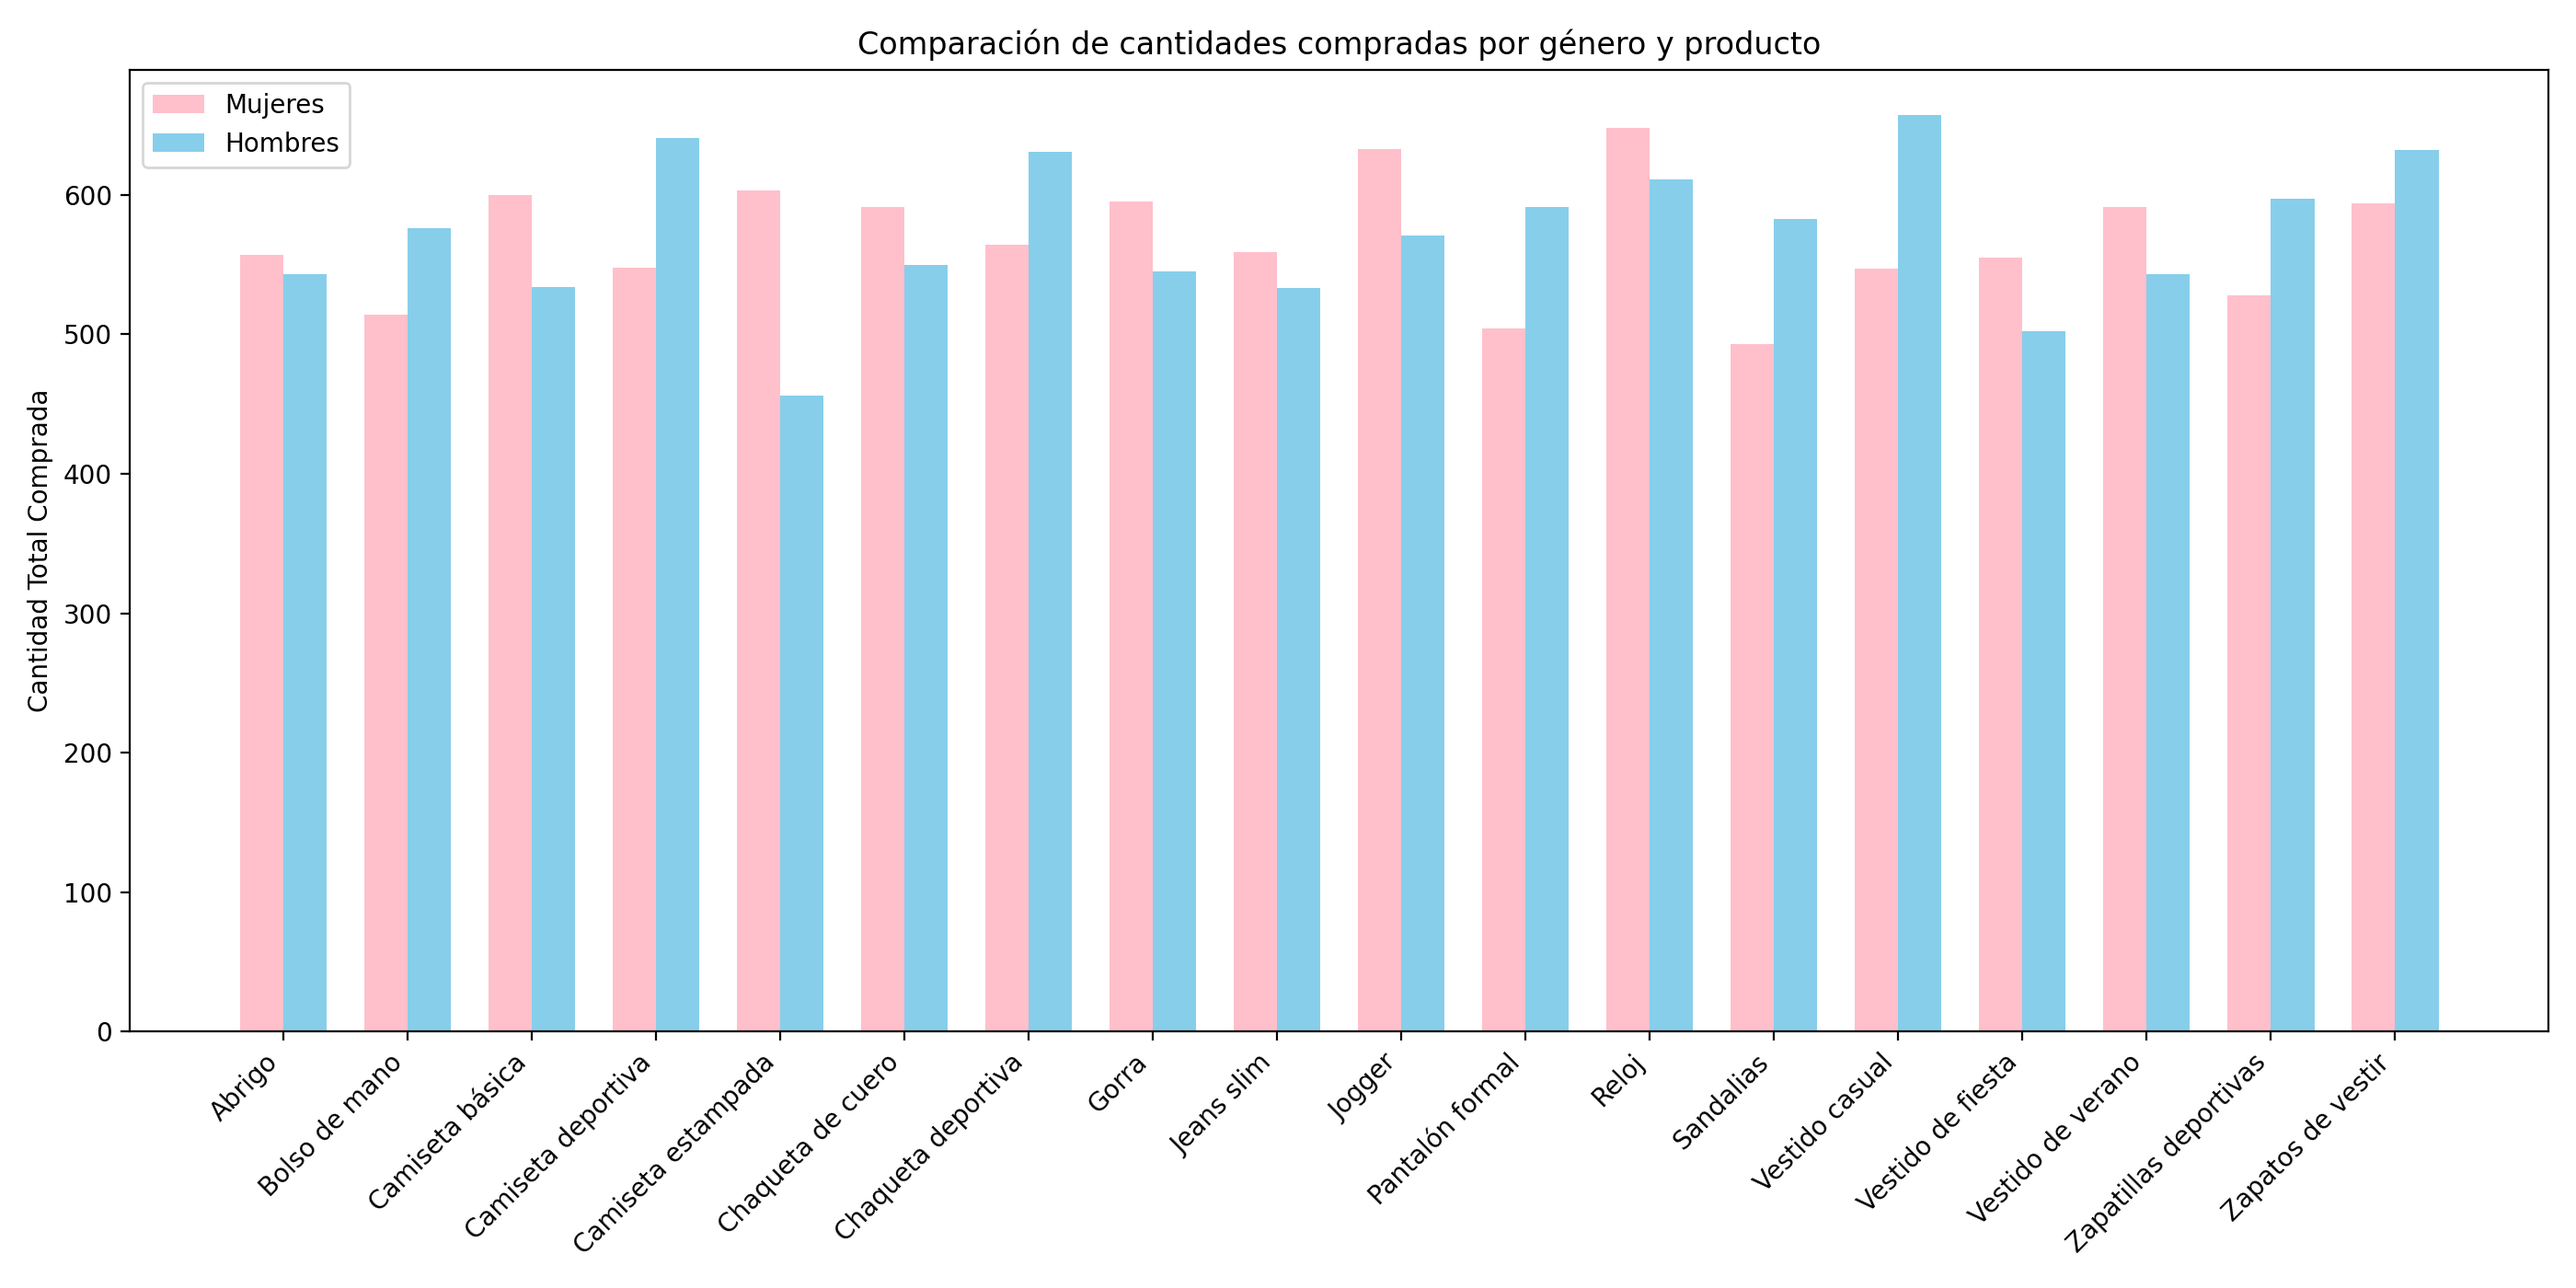
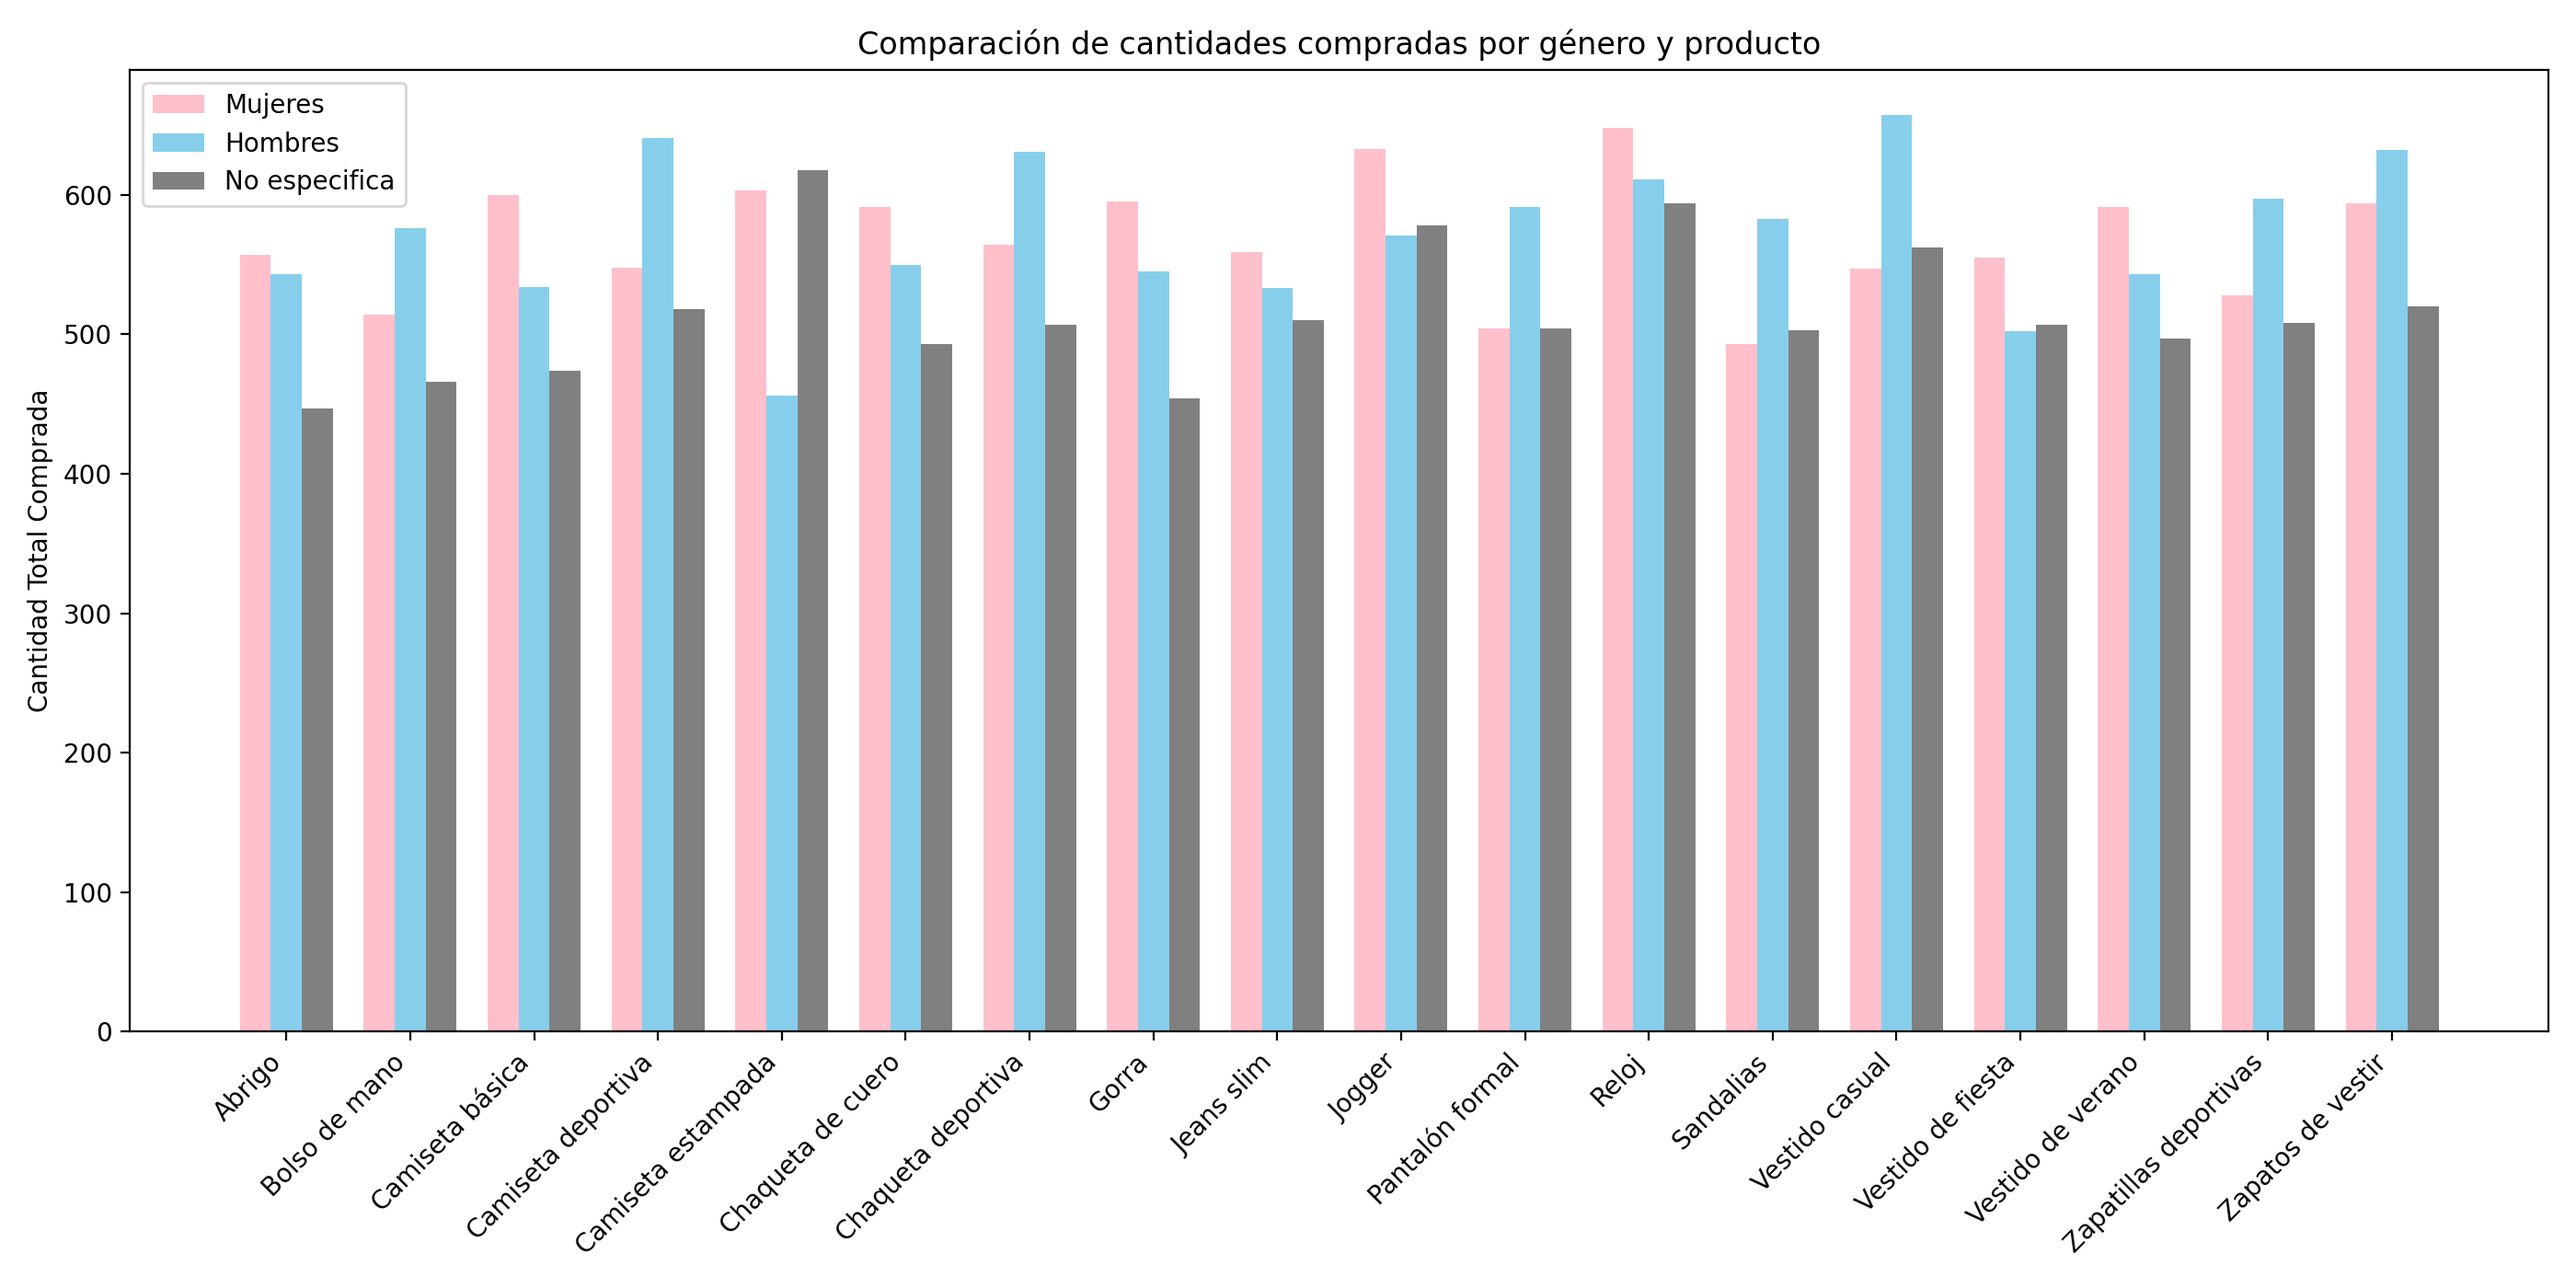
[UPDATE] segmentación por género

diff --git a/source/4-segmentacion.py b/source/4-segmentacion.py
@@ -171,7 +171,8 @@ ventas_genero_pivot = ventas_genero.pivot_table(
 
 ventas_genero_pivot = ventas_genero_pivot.rename(columns={
     "Femenino": "Cantidad_Mujeres",
-    "Masculino": "Cantidad_Hombres"
+    "Masculino": "Cantidad_Hombres",
+    "No especifica":"Cantidad_NS"
 })
 
 print(ventas_genero_pivot)
@@ -180,15 +181,22 @@ print(ventas_genero_pivot)
 productos = ventas_genero_pivot["producto"]
 cantidad_mujeres = ventas_genero_pivot["Cantidad_Mujeres"]
 cantidad_hombres = ventas_genero_pivot["Cantidad_Hombres"]
+cantidad_ns = ventas_genero_pivot["Cantidad_NS"]
 
 # Posición de las barras
 x = np.arange(len(productos))
-width = 0.35  # ancho de cada barra
+width = 0.25  # ancho de cada barra
 
 # Crear la gráfica
 plt.figure(figsize=(14,7))
-plt.bar(x - width/2, cantidad_mujeres, width, label="Mujeres", color="pink")
-plt.bar(x + width/2, cantidad_hombres, width, label="Hombres", color="skyblue")
+plt.bar(x - width, cantidad_mujeres, width,
+        label="Mujeres", color="pink")
+
+plt.bar(x, cantidad_hombres, width,
+        label="Hombres", color="skyblue")
+
+plt.bar(x + width, cantidad_ns, width,
+        label="No especifica", color="gray")
 
 # Configuración de ejes y etiquetas
 plt.xticks(x, productos, rotation=45, ha="right")
